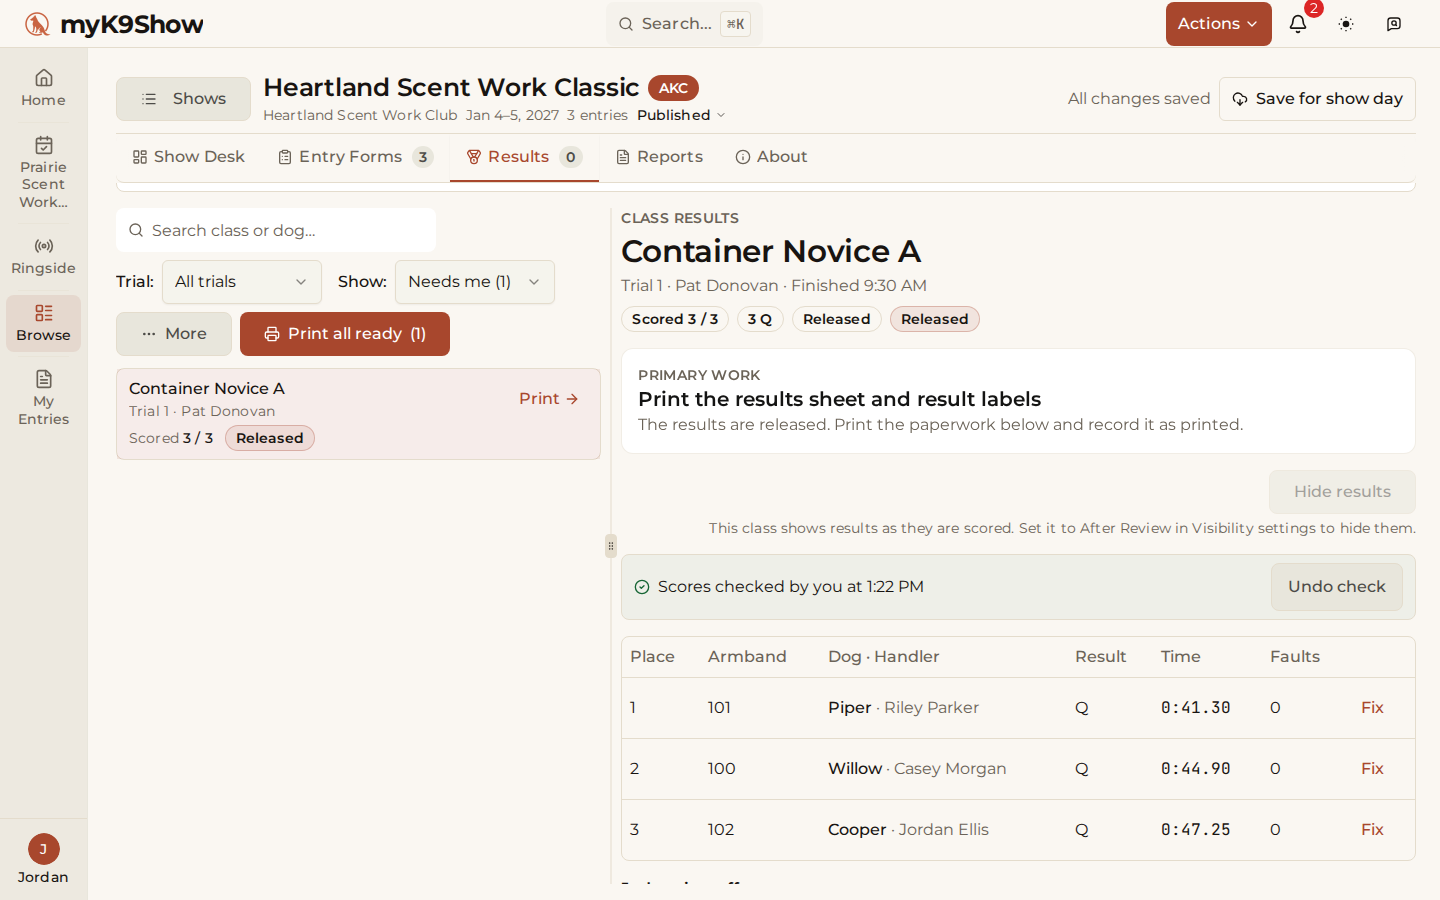
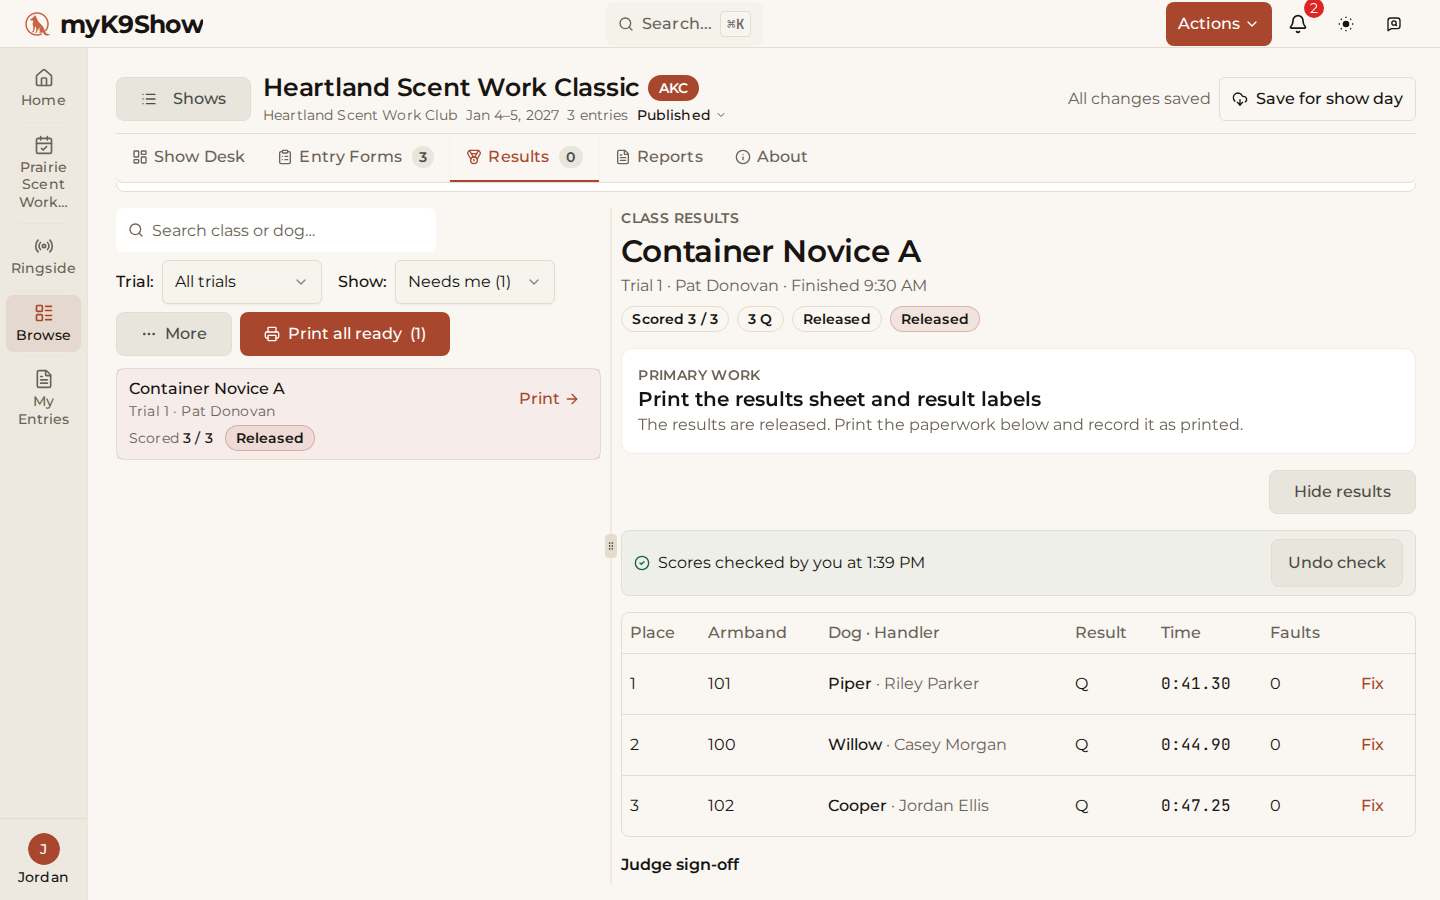
wip: MYK9-2308 Results scene recaptured with results held until release (run 44803226698)

diff --git a/apps/myk9show/src/components/landing/lifecycle/__tests__/resultsScene.test.tsx b/apps/myk9show/src/components/landing/lifecycle/__tests__/resultsScene.test.tsx
@@ -37,6 +37,8 @@ afterEach(() => {
   vi.restoreAllMocks();
 });
 
+const PHONE_BEFORE_ALT = phone!.shots.before!.alt;
+
 describe('the Results scene', () => {
   it('is the secretary’s desktop and the exhibitor’s phone, on the plan’s four lines', () => {
     expect(RESULTS_SCENE.name).toBe('Results walkthrough');
@@ -182,6 +184,19 @@ describe('the Results scene', () => {
         expect(shot.width / space.width).toBe(scale);
       }
     }
+  });
+
+  it('is staged with results held until the release, so the phone shows no result before it', () => {
+    const setup = readFileSync(
+      resolve(process.cwd(), 'src/test/e2e/capture/landingResultsSetup.sql'),
+      'utf8'
+    );
+    expect(setup).toMatch(/SET preset = 'review', placement_timing = 'manual_release'/);
+    expect(PHONE_BEFORE_ALT).not.toMatch(/Qualified|preliminary|\d:\d\d/);
+    // The released frame's camera holds the header and chips and stops above what follows them.
+    const view = frames.find(f => f.desk!.shot === 'released')!.desk!;
+    const { header } = regions.desk.shots.released.regions;
+    expect(inside(header, view.camera)).toBe(true);
   });
 
   it('describes every capture, within the copy rules', () => {

diff --git a/apps/myk9show/src/components/landing/lifecycle/scenes/resultsScene.ts b/apps/myk9show/src/components/landing/lifecycle/scenes/resultsScene.ts
@@ -24,7 +24,7 @@ type DeskShot = keyof typeof DESK_SHOTS;
 // Each description is of what the camera holds in that frame, in the labels the screen uses.
 const PHONE_ALT: Record<PhoneShot, string> = {
   before:
-    'My Entries on the phone: Piper, Armband 101, marked Scored, and her Container Novice A line reading Qualified, 0:41.30, preliminary',
+    'My Entries on the phone: Piper, Armband 101, marked Scored, and her Container Novice A line with no result on it yet',
   new: 'My Entries on the phone: Piper, Armband 101, marked Scored, and on her Container Novice A line a New result button',
   card: 'The New result card on the phone: Piper, Armband 101, Heartland Scent Work Classic, Q and 1st in Container Novice A, Time 41.30s, Faults 0 faults, and a Share button',
 };

diff --git a/docs/plan-landing-animated-timeline.md b/docs/plan-landing-animated-timeline.md
@@ -225,7 +225,7 @@ Reordered on 2026-11-17: the ring scene goes first, because its screens are sett
 
 **Owner decision (2026-11-20): one more scene, not two.** After the Entries scene the phone page is 14.22 screens (club) and 14.45 (exhibitor) against a limit of 15, and each scene adds about 1.3. The options were raising the limit, shortening scenes, or dropping one. Chosen: drop the desk scene from the landing page (it moves to the guides), build the Results scene, and raise the phone page-length limit from 15 to 16 for it. Shortening scenes was rejected: fewer frames leave a line without its screen, and smaller frames bring back the unreadable phone text the ring scene was re-captured to fix. The three stills stay.
 
-- **Results scene (built 2026-11-20, MYK9-2308).** Seven captures (three of the exhibitor's phone at 390×844 at 2×, four of the secretary's desktop at 1440×900), six frames, from the same isolated workflow and under the same safety rules (a third spec, `landingSceneResultsCapture.spec.ts`, last of the three; run 44800758821 produced the committed images, 27 files in all). Its setup (`capture/landingResultsSetup.sql`, run through psql after the target is checked) starts the show over and stages one finished class, Container Novice A: Piper (Riley Parker's dog, the one the Entries scene follows) first and Qualified, Willow and Cooper behind her, the class marked Complete, nothing checked or released, and the exhibitor's "Show your results publicly?" prompt already answered so it is in no frame. The walk is real: the secretary folds the shows list (Hide), opens the class and presses Release results once, online, and the exhibitor's phone, reloaded, shows New result and then the card. It replaces the Results step's still in both stories: the club's `s-20` and the exhibitor's `e-17`, both deleted (nothing else used them). The club leads with the desk and the exhibitor with the phone, on the same four lines. Under reduced motion each line rests on the frame its heading names (`resultsScene.test.tsx`). **Line 3 re-verified after MYK9-2072 (bulk release):** "One press" still holds, because the class page's one Release results button checks and releases in one go; the confirm dialog belongs to the tick boxes, which the scene does not show. No line was reworded. The phone limit in `landing-lifecycle.spec.ts` is now 16 (owner, 2026-11-20): phone page length at 390×844 is 15.02 screens (club) and 15.27 (exhibitor), up from 14.22 and 14.45.
+- **Results scene (built 2026-11-20, MYK9-2308).** Seven captures (three of the exhibitor's phone at 390×844 at 2×, four of the secretary's desktop at 1440×900), six frames, from the same isolated workflow and under the same safety rules (a third spec, `landingSceneResultsCapture.spec.ts`, last of the three; run 44803226698 produced the committed images, 27 files in all). Its setup (`capture/landingResultsSetup.sql`, run through psql after the target is checked) starts the show over and stages one finished class, Container Novice A: Piper (Riley Parker's dog, the one the Entries scene follows) first and Qualified, Willow and Cooper behind her, the class marked Complete, nothing checked or released, the show's results visibility set to After Review (so the exhibitor's phone shows no result until the release), and the exhibitor's "Show your results publicly?" prompt already answered so it is in no frame. The walk is real: the secretary folds the shows list (Hide), opens the class and presses Release results once, online, and the exhibitor's phone, reloaded, shows New result and then the card. It replaces the Results step's still in both stories: the club's `s-20` and the exhibitor's `e-17`, both deleted (nothing else used them). The club leads with the desk and the exhibitor with the phone, on the same four lines. Under reduced motion each line rests on the frame its heading names (`resultsScene.test.tsx`). **Line 3 re-verified after MYK9-2072 (bulk release):** "One press" still holds, because the class page's one Release results button checks and releases in one go; the confirm dialog belongs to the tick boxes, which the scene does not show. No line was reworded. The phone limit in `landing-lifecycle.spec.ts` is now 16 (owner, 2026-11-20): phone page length at 390×844 is 15.02 screens (club) and 15.27 (exhibitor), up from 14.22 and 14.45.
 - Capture and wire the three stills. Remove the old two-column layout and its CSS. (The Results scene is built, above.) **Done in part (MYK9-2295, owner 2026-11-19):** `meanwhileShot` and its CSS are gone; the meanwhile column is a sentence, or a scene where one is wired. Still to do here: the three stills and the rest of the two-column layout (MYK9-2309).
 - **Tests:** as Phase 1 for the new scenes. Assert rendered geometry at 390px and 1280px (no horizontal overflow, devices stack on the phone). Shuffled full-suite run.
 
